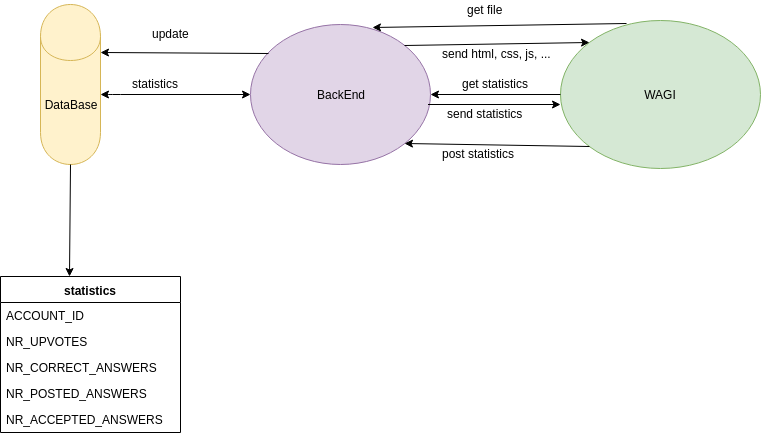
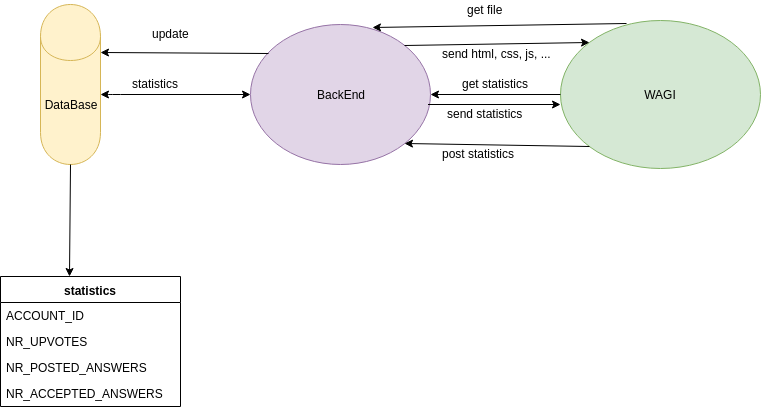
diagram change

diff --git a/WaGiArchitecture.html b/WaGiArchitecture.html
@@ -178,6 +178,9 @@
                            <li><code>CHOSEN_TOPIC</code> - the topic selected by user before to start the game and after button play was pressed.</li>
                            <li><code>QUESTION_ID</code> - the id provided by Stack Exchange questions API to identify question.</li>
                            <li><code>ANSWERS</code> - list of top <code>MAX_ANSWERS</code> answers that respond to the question identified with <code>QUESTION_ID</code>.</li>
+                           <li><code>NR_UPVOTES</code> - total number of upvotes added by the user.</li>
+                           <li><code>NR_ACCEPTED_ANSWERS</code> - total number of accepted answers upvoted by the user.</li>
+                           <li><code>NR_POSTED_ANSWERS</code> - total number of answers posted by the user.</li>
                        </ul> 
                     </p>
 
@@ -449,6 +452,11 @@
                     Those pages will share the footer and navbar <code>CSS</code> file and a default structure for
                     content container, named <code>style.css</code>. For implementing any specific stilizations each
                     page will have an <code>CSS</code> and maybe <code>JS</code> file named by the title of the page.
+                </p>
+                <p>
+                    For updating the statistics on server, the request will have to to contain a password which will be checked
+                    on server-side. For security reasons, the password will be stored in a hashed form and this hash should be
+                    equal to the hash of the password contained by the request.
                 </p>
             </section>
 
